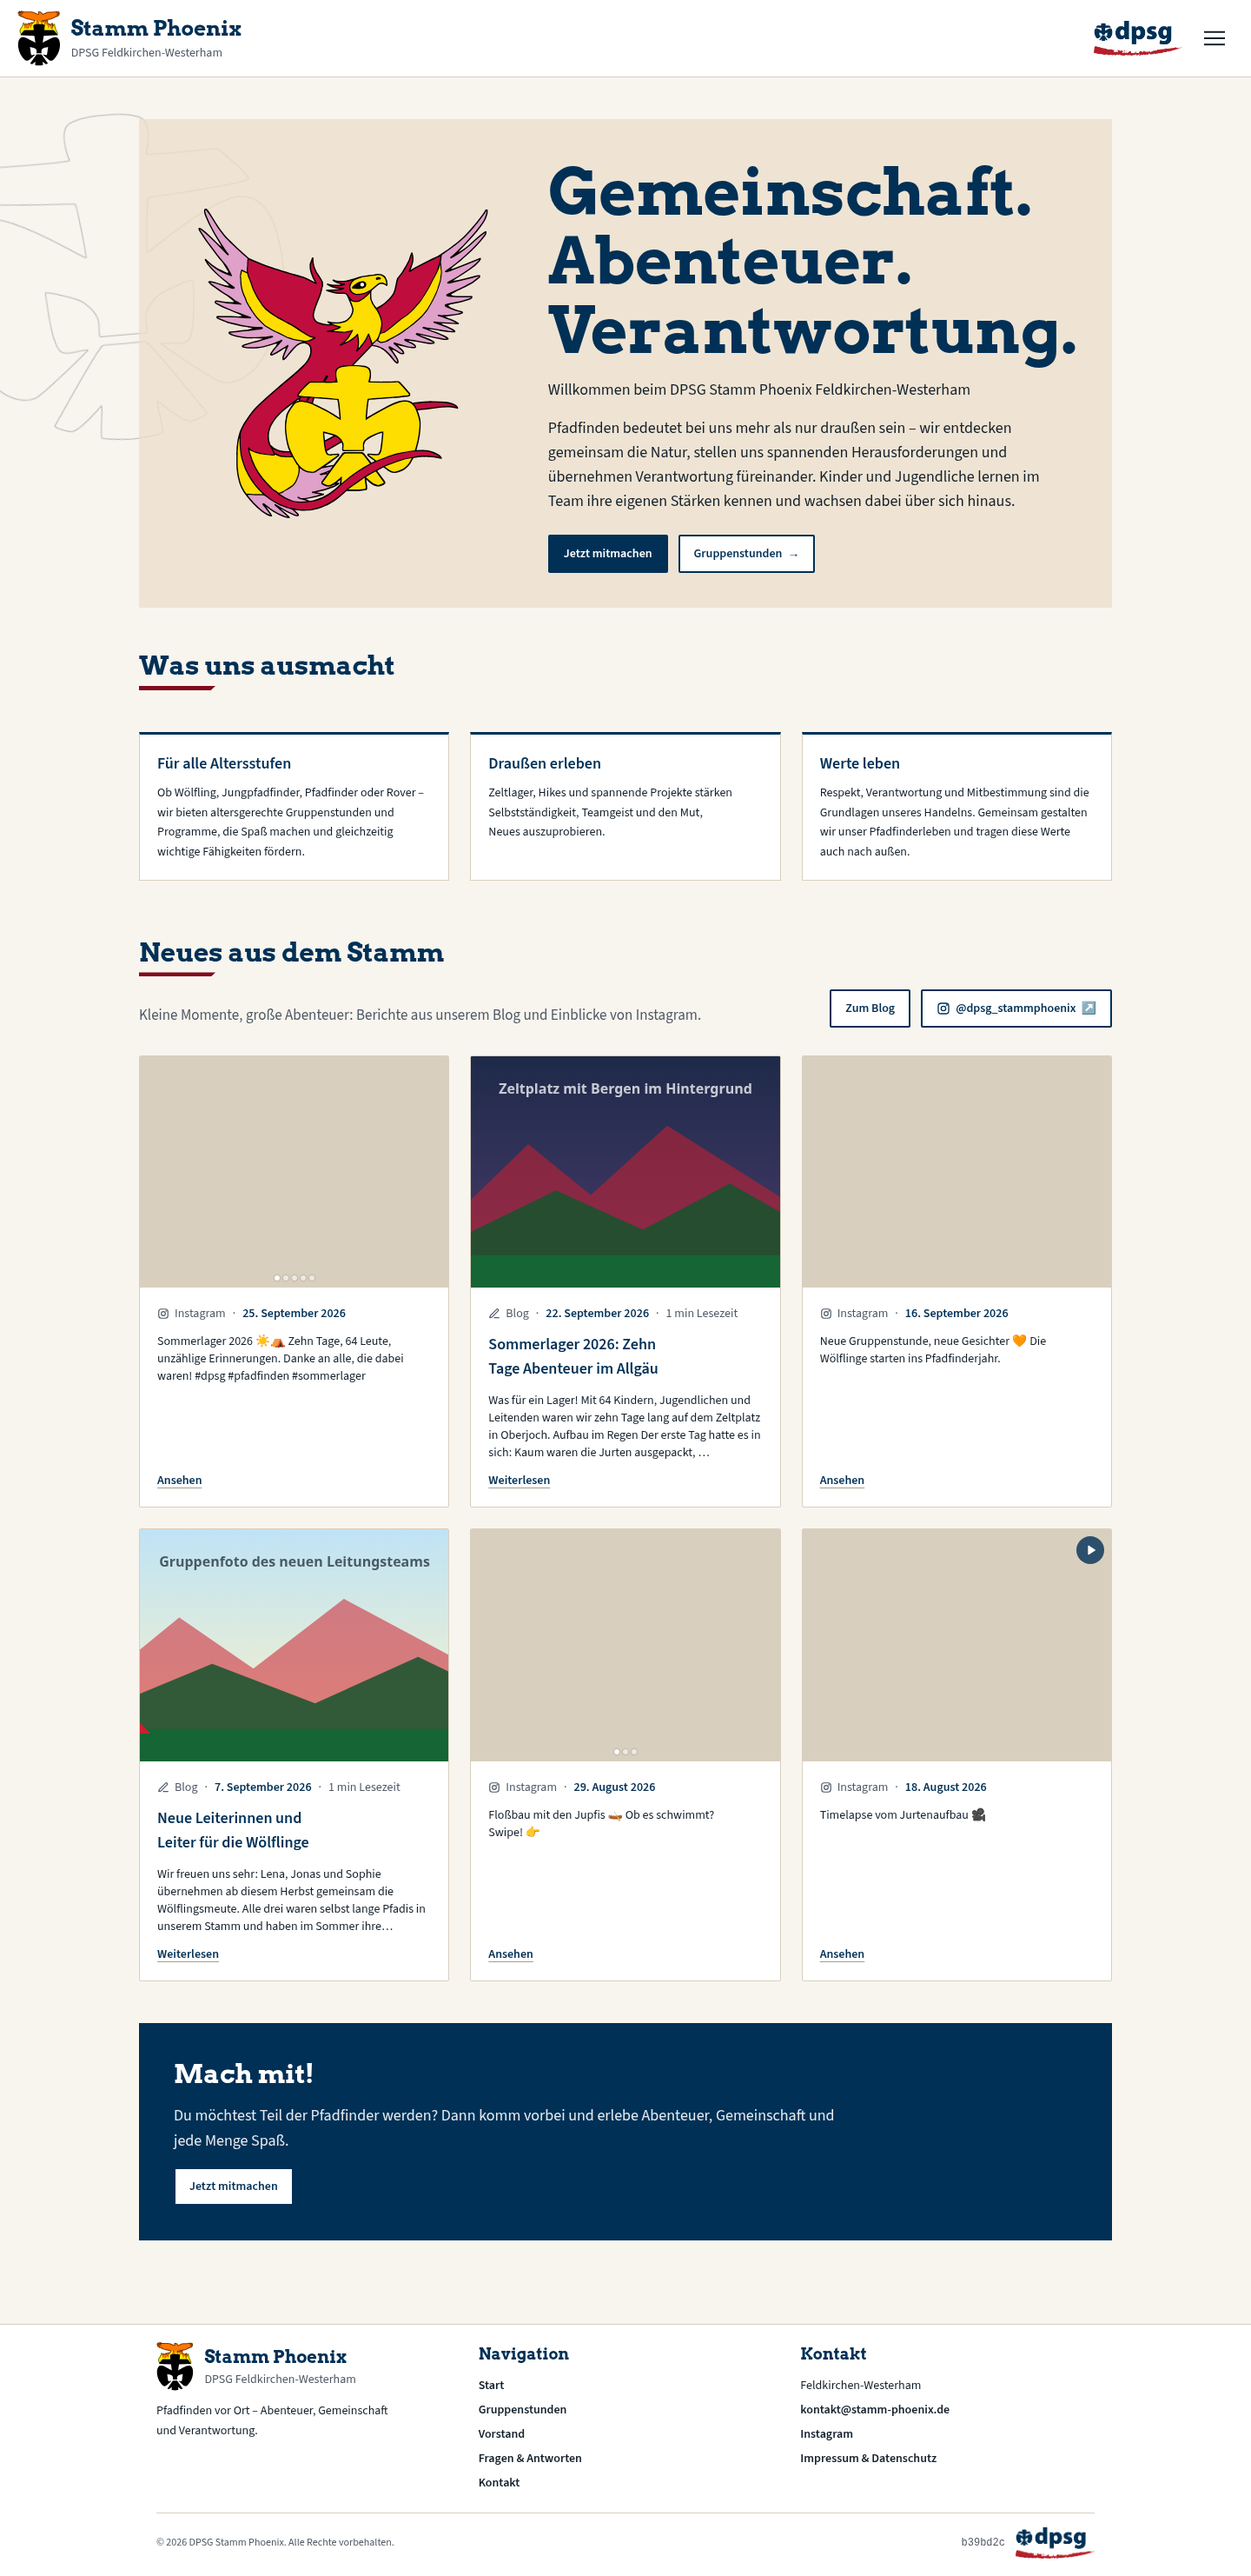
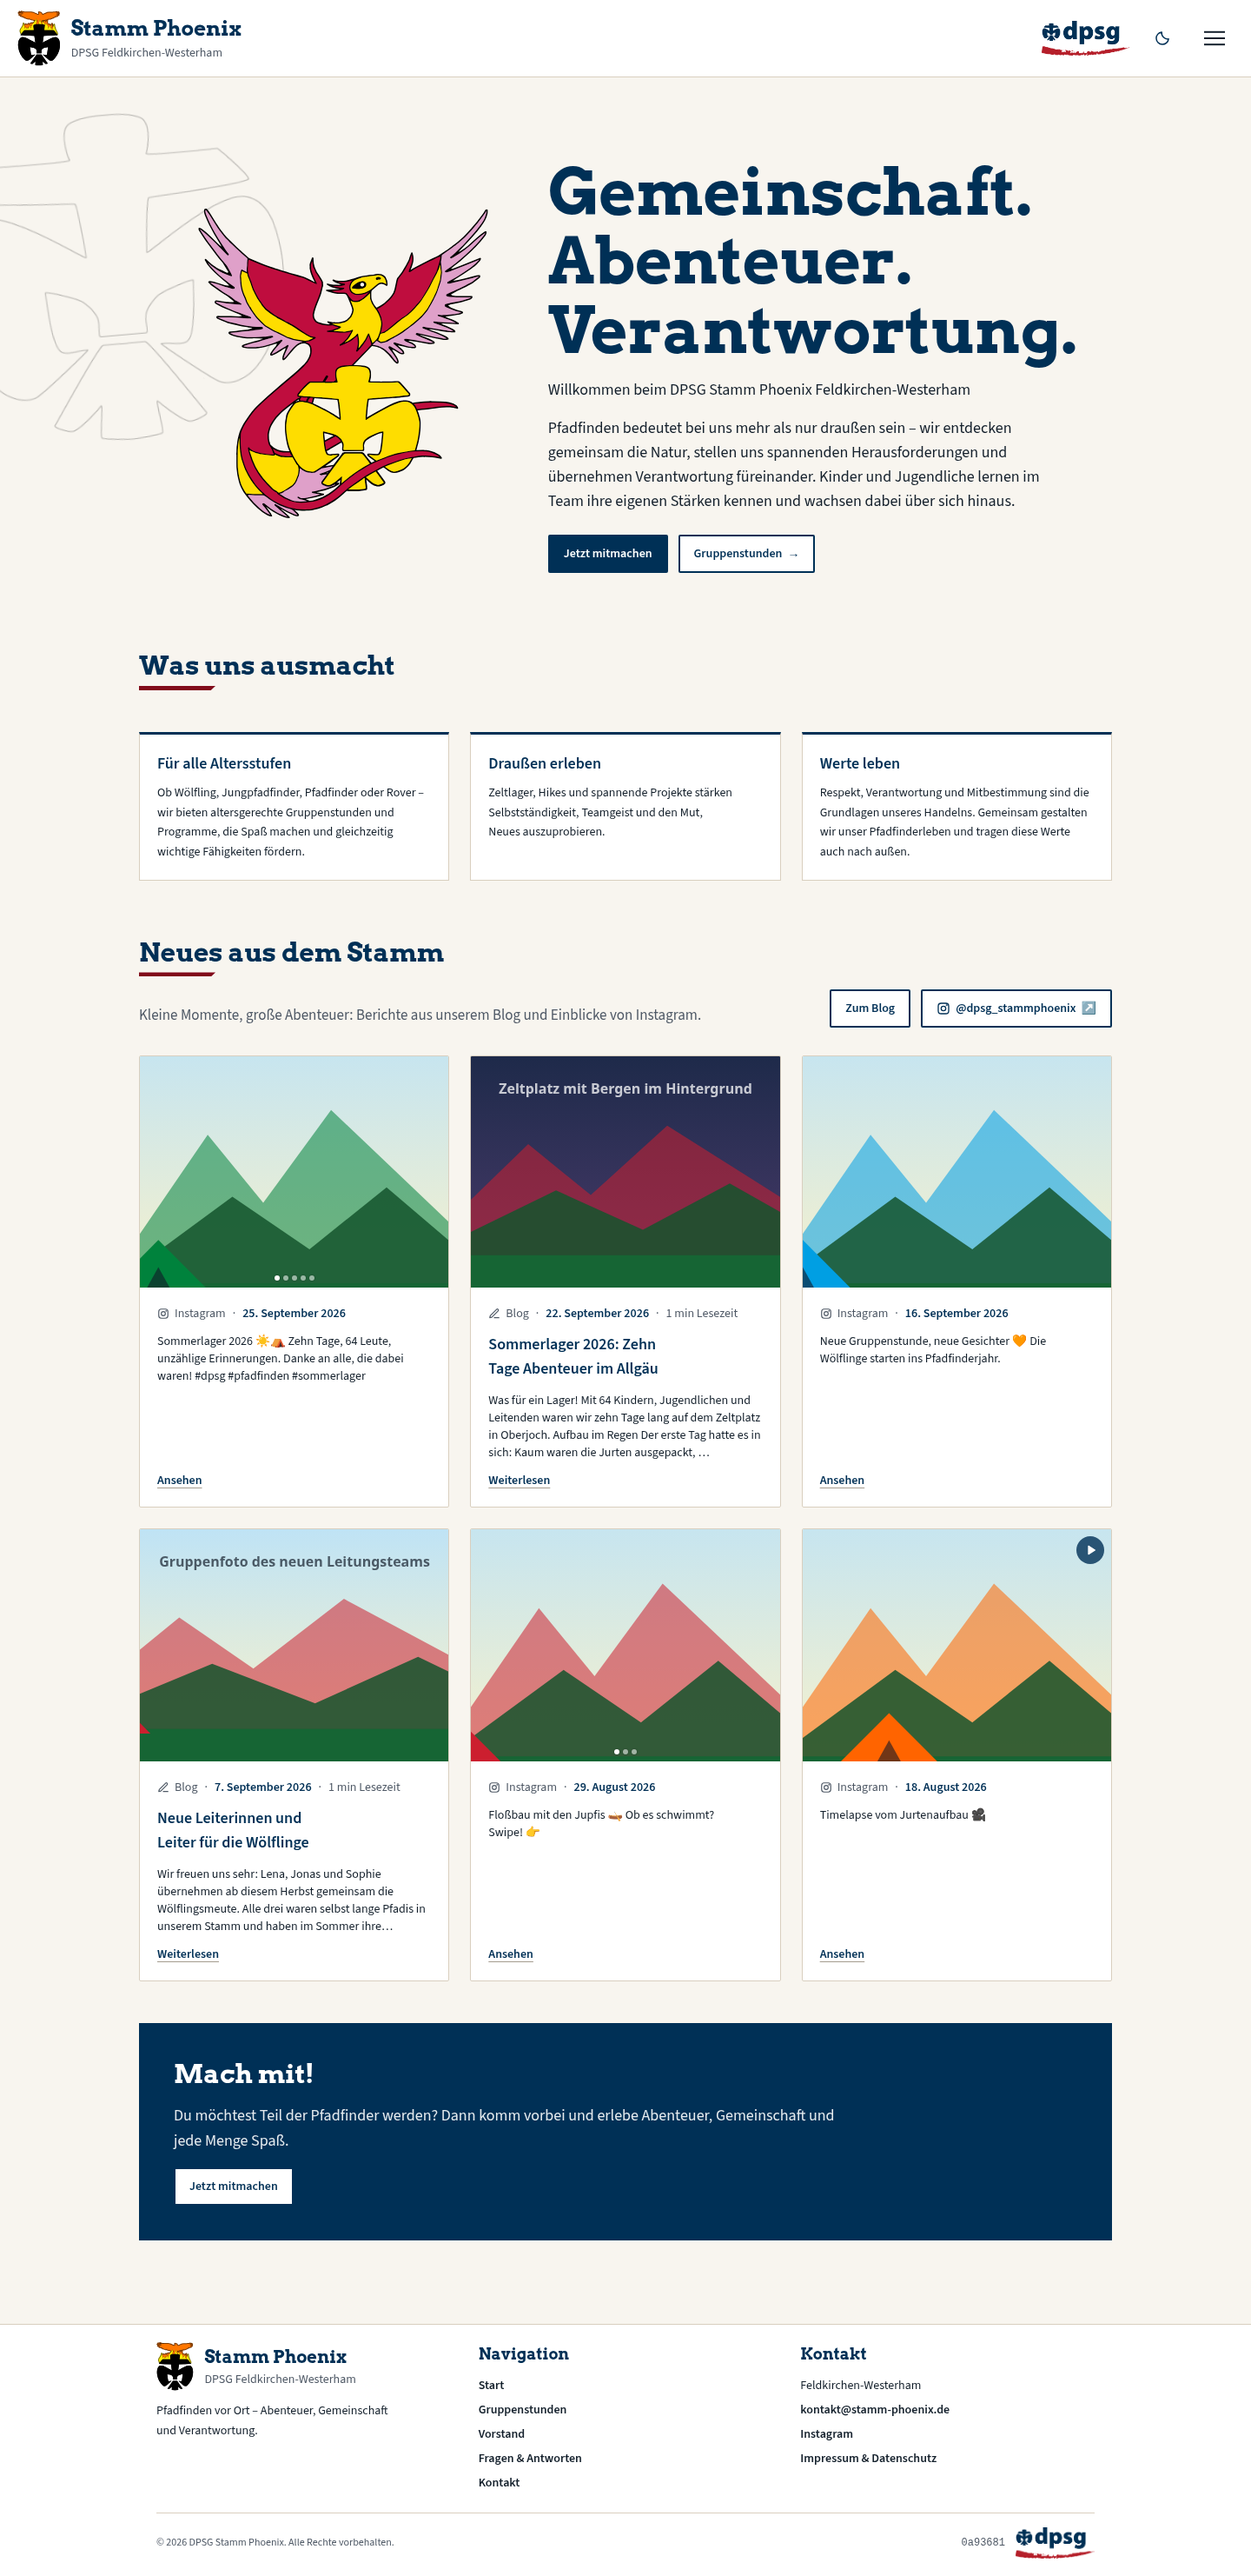
Remove light hero background and refresh PR screenshots

diff --git a/web/src/styles/global.css b/web/src/styles/global.css
@@ -74,7 +74,6 @@
   color-scheme: light;
   --page-decoration-opacity: 0.3;
   --page-decoration-filter: grayscale(1) brightness(0.1);
-  --hero-background: rgb(236 223 203 / 0.78);
   --button-press: #001a30;
   --field-border: var(--color-brand-900);
 }
@@ -119,7 +118,6 @@
     --field-border: #a7b0b8;
     --button-press: #d8c8af;
     --dialog-backdrop: rgb(4 9 14 / 0.75);
-    --hero-background: transparent;
     --page-decoration-opacity: 0.2;
     --page-decoration-filter: grayscale(1) brightness(0) invert(1);
   }
@@ -199,7 +197,7 @@ p {
   display: none;
 }
 .ui-hero {
-  background: var(--hero-background);
+  background: transparent;
   color: var(--color-brand-900);
   border-radius: 0;
 }

diff --git a/docs/ui/leitfaden.md b/docs/ui/leitfaden.md
@@ -35,7 +35,7 @@ Neue Oberflächen sollen diese Bausteine verwenden. Eigene Buttonformen, feste w
 
 ## Farben und dunkles Theme
 
-Die dunkle Palette verwendet Nacht `#101b26` für die Seite, Zelt `#172633` für Bereiche, Feld `#21334a` für Eingaben, Kluft `#ecdfcb` für Überschriften und Hauptaktionen, Text `#e4ded4` und Himmel `#8ccbec` für Links und Fokus. Die blaue Basis bleibt mit DPSG verbunden. Beige trennt Überschriften von Links; beige Buttons erhalten dunkelblaue Schrift. Die Startseite behält ihre Texte und Aktionen, ihr Hero steht im dunklen Theme ohne eigene Fläche auf der Seite. Formfelder, Dialoge und Kalender verwenden dieselben Rollen. Die Stufenfarben bleiben erhalten und bekommen im dunklen Theme eine feine beige Umrandung. Infobereiche erhalten eine 3px breite beige Oberkante. Die Hintergrundlilie bleibt mit 0,2 Deckkraft sichtbar, die Header-Trennlinie verwendet das kräftigere Neutral-300.
+Die dunkle Palette verwendet Nacht `#101b26` für die Seite, Zelt `#172633` für Bereiche, Feld `#21334a` für Eingaben, Kluft `#ecdfcb` für Überschriften und Hauptaktionen, Text `#e4ded4` und Himmel `#8ccbec` für Links und Fokus. Die blaue Basis bleibt mit DPSG verbunden. Beige trennt Überschriften von Links; beige Buttons erhalten dunkelblaue Schrift. Die Startseite behält ihre Texte und Aktionen, ihr Hero steht in beiden Themes ohne eigene Fläche auf der Seite. Formfelder, Dialoge und Kalender verwenden dieselben Rollen. Die Stufenfarben bleiben erhalten und bekommen im dunklen Theme eine feine beige Umrandung. Infobereiche erhalten eine 3px breite beige Oberkante. Die Hintergrundlilie bleibt mit 0,2 Deckkraft sichtbar, die Header-Trennlinie verwendet das kräftigere Neutral-300.
 
 `global.css` enthält die gemeinsamen Tokens. `surface`, `neutral-*`, `brand-*`, `danger`, `success`, `warning`, `warning-soft`, `danger-soft`, `success-soft` und `focus` ändern sich mit `prefers-color-scheme`. `action` und `on-action` bilden das Farbpaar für Hauptaktionen. Es ist im hellen Theme blau/weiß und im dunklen Theme beige/blau. `link` kennzeichnet tatsächliche Links, nicht Statuslabels oder Tags. Die originalen DPSG-Farben bleiben für Marken und Stufenmarker erhalten.
 
